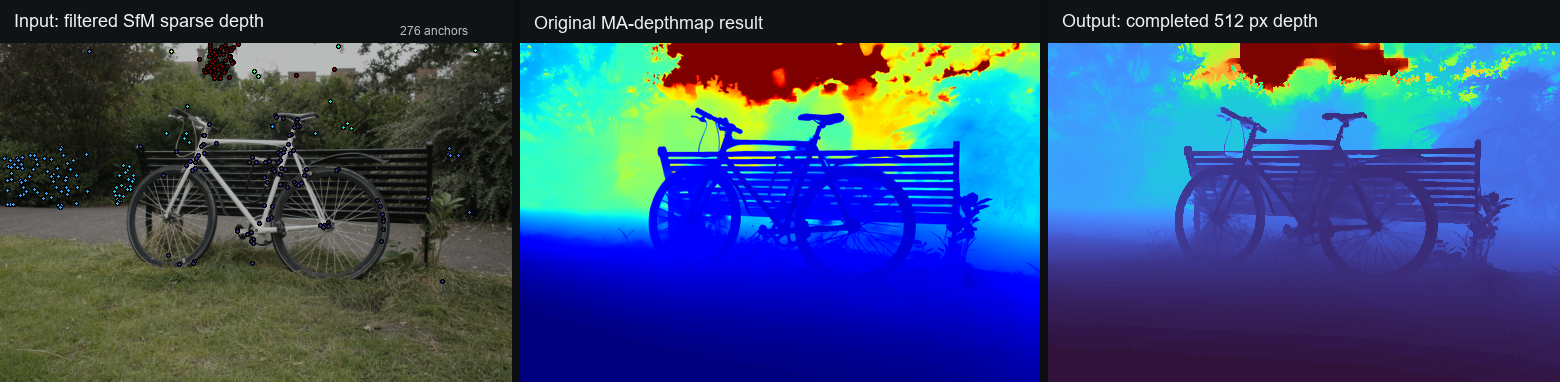
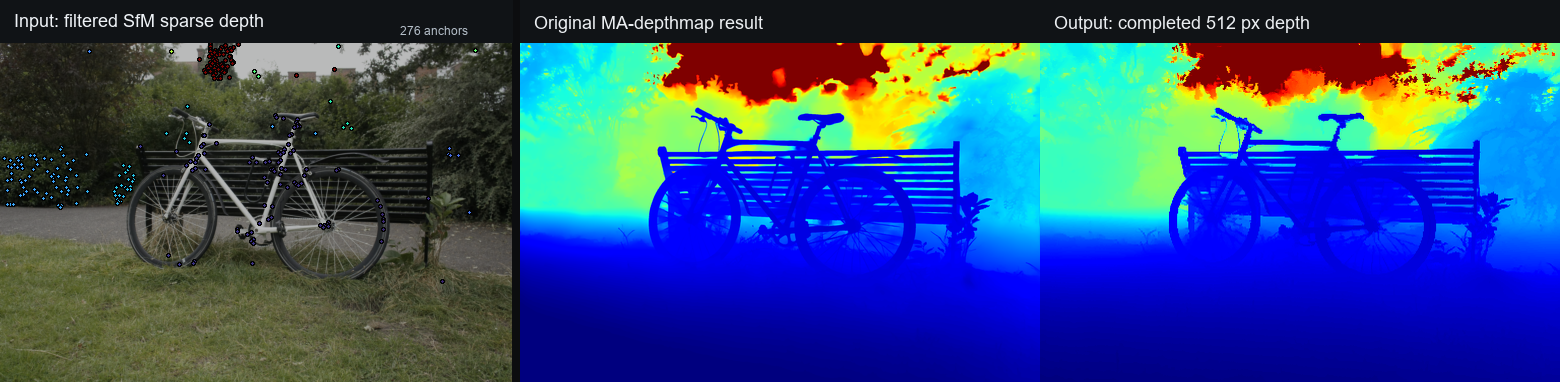
Use shared colormap for README depth panels

Changed region(s): [[0.6462, 0.1152, 1.0, 1.0], [0.6769, 0.0288, 0.8615, 0.0864]]

diff --git a/README.md b/README.md
@@ -8,7 +8,7 @@
   <img src="docs/assets/bicycle_sparse_vs_completed.png" alt="Sparse bicycle COLMAP/SfM depth anchors, original Metric-Anything depth result, and completed OMNI-DC-MA depth map" width="100%">
 </p>
 
-<p align="center"><em>Example bicycle frame: globally filtered sparse metric SfM anchors projected to 2D, the original Metric-Anything depth result, and the regenerated 512 px OMNI-DC-MA completed depth map.</em></p>
+<p align="center"><em>Example bicycle frame: globally filtered sparse metric SfM anchors projected to 2D, the original Metric-Anything depth result, and the regenerated 512 px OMNI-DC-MA completed depth map. Both depth panels use the same jet color map and shared percentile scale.</em></p>
 
 ## What This Repo Is For
 